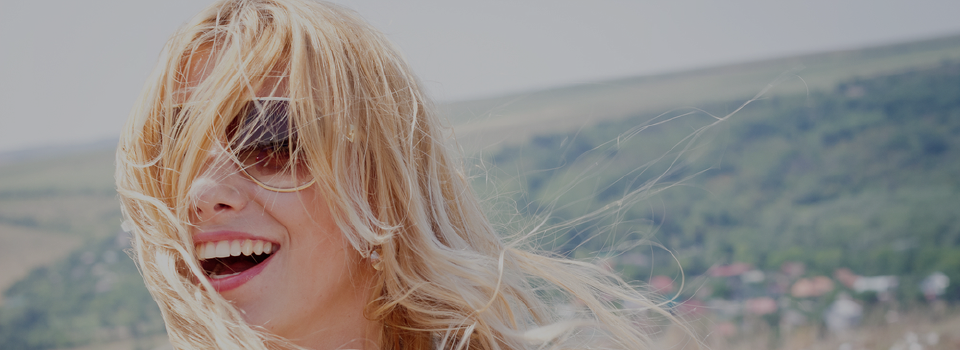
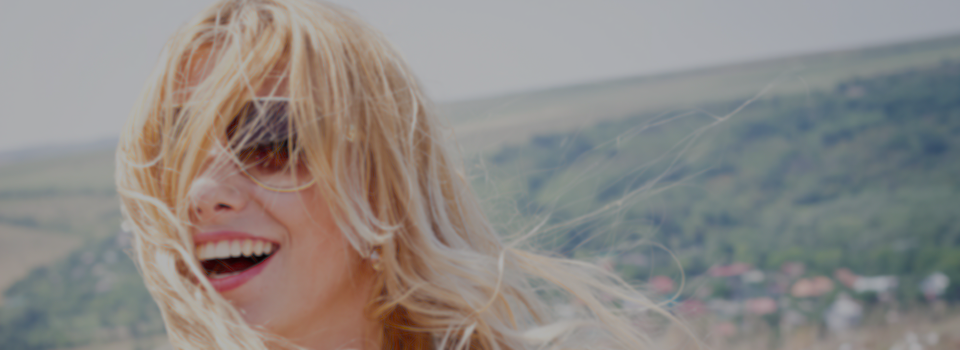
modified responsive background image, css and navbar titles

diff --git a/app/assets/stylesheets/cleanpowerperks.css.scss b/app/assets/stylesheets/cleanpowerperks.css.scss
@@ -2,7 +2,7 @@
 @import "bootstrap/mixins";
 /* Navbar */
 
-$green-theme: #4fc18d;
+$green-theme: #3BB07B;
 
 @media (min-width: 768px) {
   	div.navbar-header {
@@ -29,18 +29,47 @@ a.navbar-logo {
 
 /* Fonts */
 
-h1, h2, h3, h4, h5, h6 {
+h1, h2, h3, h4, h5, h6, a, p {
 	margin: 0;
 	font-family: 'Gotham SSm A', 'Gotham SSm B', 'Helvetica Neue', Arial, Helvetica, sans-serif;
-	font-weight: 700;
-	line-height: 1.2;
 }
 
-/* Landing Page */
+/* Landing Page Images */
 .landing-logo {
 	display: inline-block;
-
 }
+
+.img-landing {
+	background-image: url('/assets/customer_reduced_exposure.png');
+	background-repeat: no-repeat;
+	background-size: 1500px;
+}
+
+@media (min-width: 1154px) {
+	.landing-logo {
+		width: 200px;
+	}
+}
+
+@media (min-width: 768px) and (max-width: 1153px) {
+	.landing-logo {
+		width: 150px;
+	}
+}
+
+@media (min-width: 429px) and (max-width: 767px) {
+	.landing-logo {
+		width: 150px;
+	}
+}
+
+@media (min-width: 100px) and (max-width: 428px) {
+	.landing-logo {
+		width: 100px;
+	}
+}
+
+
 .btn-benefits {
 	background: none;
 	border: solid;

diff --git a/app/assets/stylesheets/carousel.css.scss b/app/assets/stylesheets/carousel.css.scss
@@ -38,7 +38,7 @@ body {
 /* Carousel base class */
 .carousel {
   height: 500px;
-  margin-bottom: 60px;
+  margin-bottom: 20px;
 }
 /* Since positioning the image, we need to help out the caption */
 .carousel-caption {
